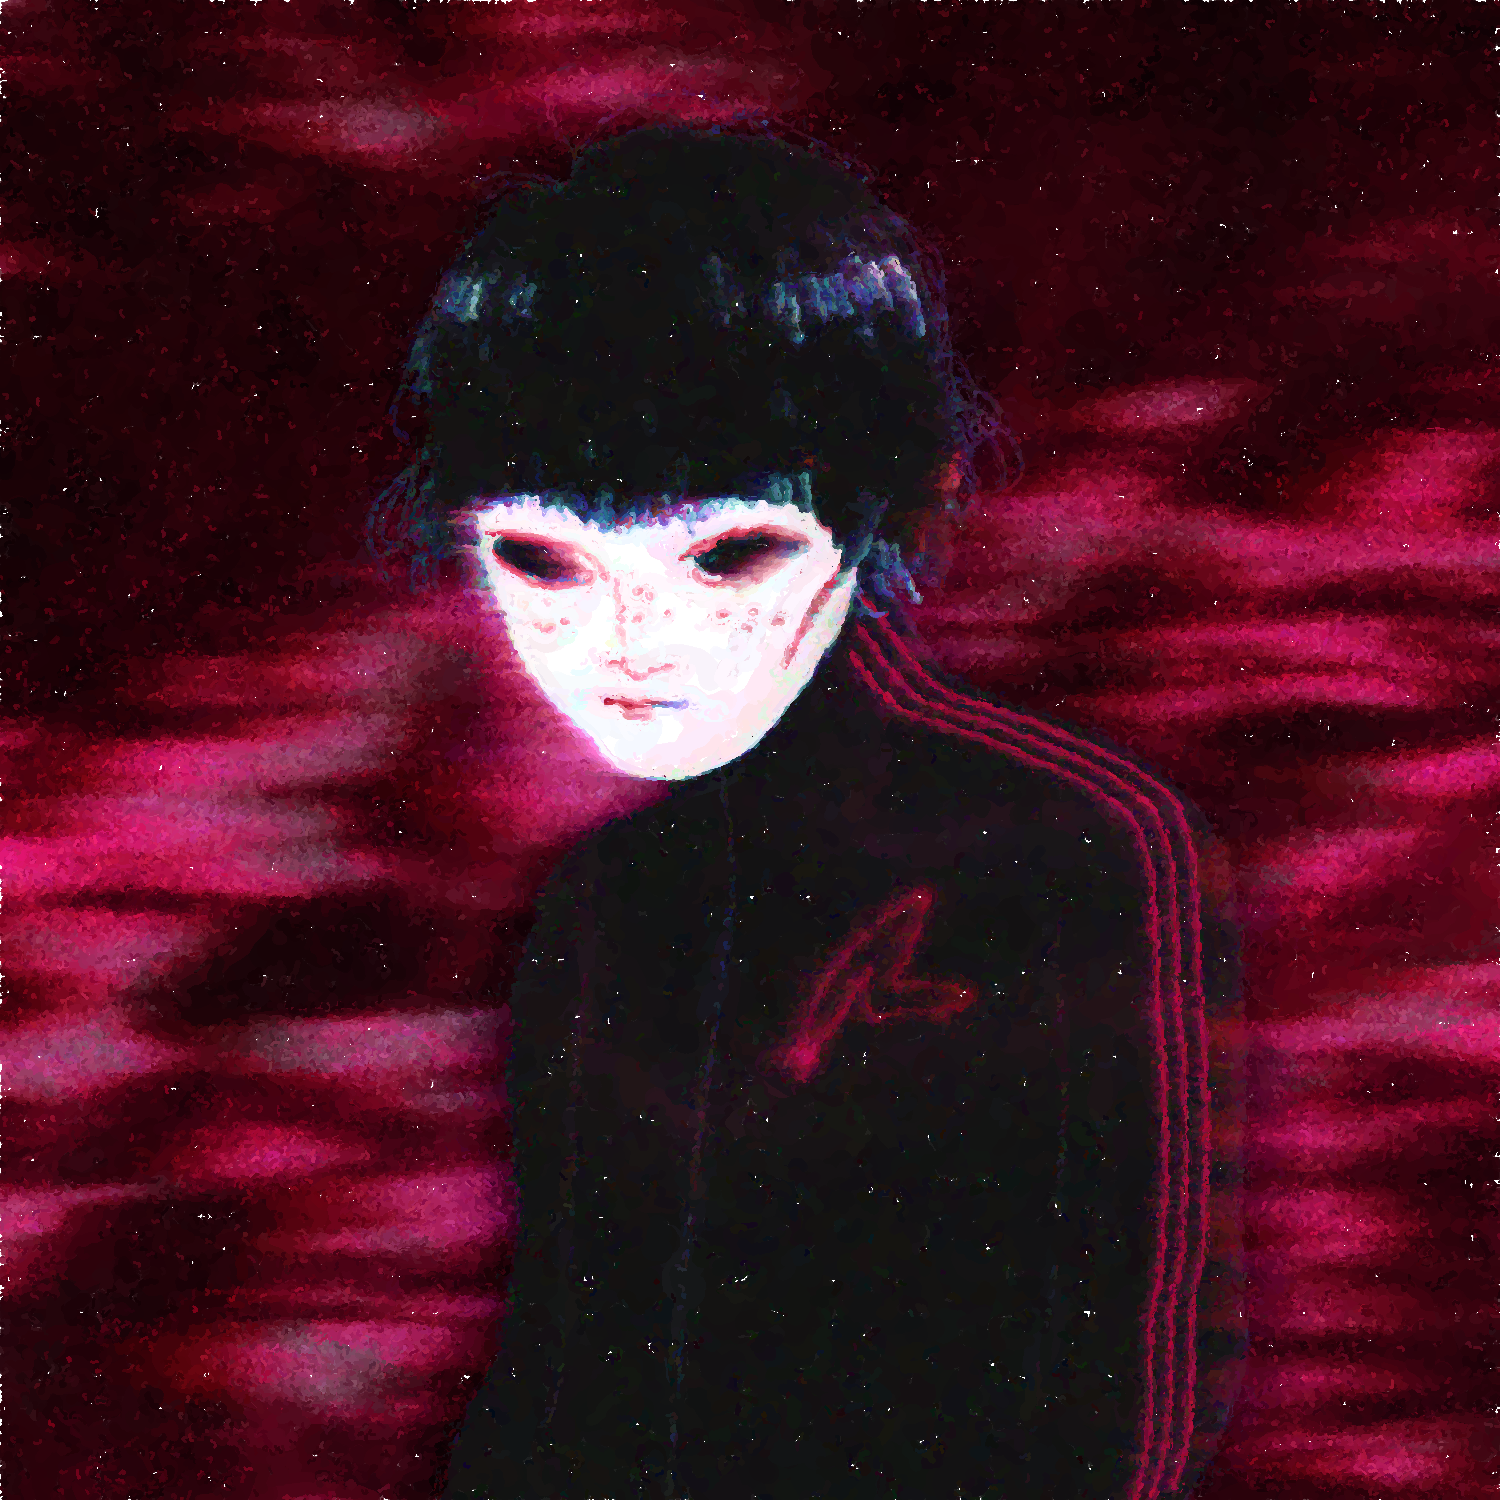
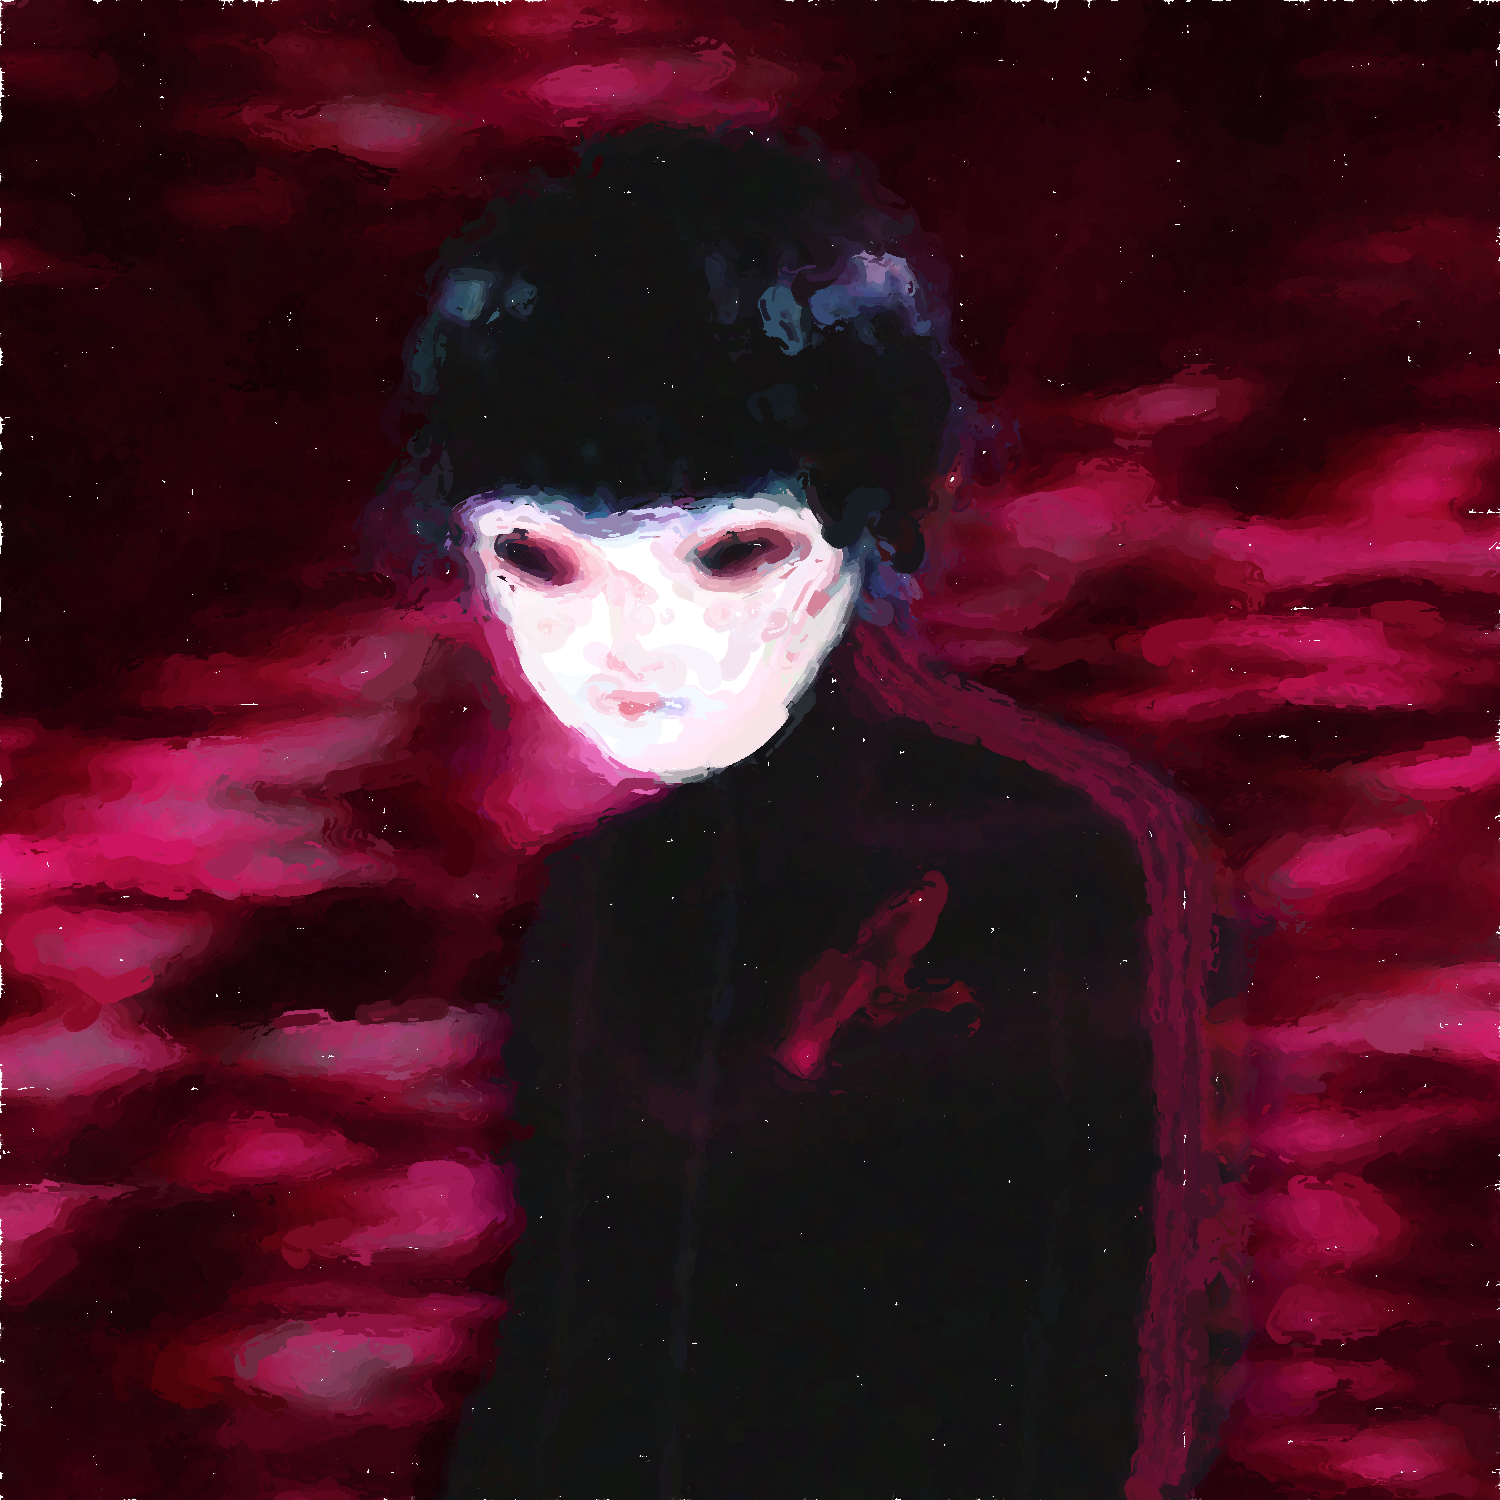
REFACTOR: (was dumb and doing the exact same computations n times because of the number of brushSizes we have) | ADD: Paralellism for Grayscale conversion

diff --git a/internal/gradient/grayscale.go b/internal/gradient/grayscale.go
@@ -1,8 +1,10 @@
 package gradient
 
 import (
+	"fmt"
 	"github.com/ACKERMANNGUE/go-painter/internal/model"
 	"image"
+	"sync"
 )
 
 func ToGrayscale(img image.Image) model.GrayImage {
@@ -30,4 +32,85 @@ func ToGrayscale(img image.Image) model.GrayImage {
 	}
 
 	return grayImage
+}
+
+func splitRows(height int, workers int) []model.Vec2 {
+	if workers <= 0 {
+		workers = 1
+	}
+	if workers > height {
+		workers = height
+	}
+
+	rows := make([]model.Vec2, 0, workers)
+	start := 0
+	end := 0
+
+	for i := 0; i < workers; i++ {
+		start = i * height / workers
+		end = (i + 1) * height / workers
+		fmt.Printf("start %v, end %v\n", start, end)
+		rows = append(rows, model.Vec2{
+			X: float64(start),
+			Y: float64(end),
+		})
+	}
+
+	return rows
+}
+
+func checkWorkerCount(workers int, height int) int {
+	if workers <= 0 {
+		return 1
+	}
+
+	if workers > height {
+		return height
+	}
+
+	return workers
+}
+
+func ToGrayscaleParallel(img image.Image, workers int) model.GrayImage {
+	bounds := img.Bounds()
+	width := bounds.Dx()
+	height := bounds.Dy()
+
+	workers = checkWorkerCount(workers, height)
+
+	grayImage := model.GrayImage{
+		Width:  width,
+		Height: height,
+		Data:   make([]float64, width*height),
+	}
+
+	ranges := splitRows(height, workers)
+
+	var wg sync.WaitGroup
+	for i := 0; i < len(ranges); i++ {
+		wg.Add(1)
+		go func(i int) {
+			defer wg.Done()
+			GrayifyRange(img, &grayImage, ranges[i])
+		}(i)
+	}
+
+	wg.Wait()
+	return grayImage
+}
+
+func GrayifyRange(source image.Image, grayImage *model.GrayImage, rangeRow model.Vec2) {
+	maxValue := 65535.0
+	redIntensity := 0.299
+	greenIntensity := 0.587
+	blueIntensity := 0.114
+	width := source.Bounds().Dx()
+
+	for y := int(rangeRow.X); y < int(rangeRow.Y); y++ {
+		for x := 0; x < width; x++ {
+			r, g, b, _ := source.At(x, y).RGBA()
+			grayValue := redIntensity*float64(r)/maxValue + greenIntensity*float64(g)/maxValue + blueIntensity*float64(b)/maxValue
+			grayImage.Data[y*width+x] = grayValue
+		}
+	}
 }

diff --git a/internal/painter/painter.go b/internal/painter/painter.go
@@ -34,35 +34,37 @@ func (p *Painter) Paint(source image.Image) (*image.RGBA, error) {
 	}
 
 	canvas := render.NewCanvas(bounds.Dx(), bounds.Dy(), model.ColorF{R: 1, G: 1, B: 1, A: 1})
+	baseBrushSize := p.Config.BrushSizes[0]
+	radius := max(1, baseBrushSize/4)
+	sigma := math.Max(0.8, float64(radius)*0.75)
+	reference := imageutil.GaussianBlur(source, radius, sigma)
+	gray := gradient.ToGrayscaleParallel(reference, p.Config.Workers)
+	field := gradient.Sobel(gray)
 
+	strokes := make([]model.BrushStroke, 0)
 	for _, brushSize := range p.Config.BrushSizes {
-		radius := max(1, brushSize/4)
-		sigma := math.Max(0.8, float64(radius)*0.75)
-		reference := imageutil.GaussianBlur(source, radius, sigma)
-		gray := gradient.ToGrayscale(reference)
-		field := gradient.Sobel(gray)
+		brushStrokes := GenerateStrokes(reference, canvas, field, brushSize, p.Config, p.rng)
+		strokes = append(strokes, brushStrokes...)
+	}
+	shuffleStrokes(strokes, p.rng)
 
-		strokes := GenerateStrokes(reference, canvas, field, brushSize, p.Config, p.rng)
-		shuffleStrokes(strokes, p.rng)
-
-		for _, stroke := range strokes {
-			if p.Config.UseCurvedStrokes {
-				points := DrawStroke(
-					stroke.Position,
-					field,
-					stroke.Length,
-					math.Max(1, stroke.Width*0.35),
-					p.Config.CurveSmoothing,
-				)
-				render.DrawCurvedStroke(canvas, model.CurvedStroke{
-					Points:  points,
-					Width:   stroke.Width,
-					Color:   stroke.Color,
-					Opacity: stroke.Opacity,
-				})
-			} else {
-				render.DrawStroke(canvas, stroke)
-			}
+	for _, stroke := range strokes {
+		if p.Config.UseCurvedStrokes {
+			points := DrawStroke(
+				stroke.Position,
+				field,
+				stroke.Length,
+				math.Max(1, stroke.Width*0.35),
+				p.Config.CurveSmoothing,
+			)
+			render.DrawCurvedStroke(canvas, model.CurvedStroke{
+				Points:  points,
+				Width:   stroke.Width,
+				Color:   stroke.Color,
+				Opacity: stroke.Opacity,
+			})
+		} else {
+			render.DrawStroke(canvas, stroke)
 		}
 	}
 

diff --git a/cmd/painter/main.go b/cmd/painter/main.go
@@ -17,6 +17,7 @@ func main() {
 	styleName := flag.String("style", "oil", "Painting preset: oil, impressionist, or rough")
 	seed := flag.Uint64("seed", 1, "Deterministic random seed used for stroke placement")
 	listStyles := flag.Bool("list-styles", false, "Print available style names and exit")
+	workers := flag.Int("workers", 8, "Number of workers to use")
 	flag.Parse()
 
 	if *listStyles {
@@ -34,6 +35,8 @@ func main() {
 		fmt.Fprintf(os.Stderr, "error: unknown style %q; available styles: %s\n", *styleName, strings.Join(painter.PresetNames(), ", "))
 		os.Exit(2)
 	}
+	config.Workers = *workers
+
 	source, err := imageutil.LoadImage(*inputPath)
 	if err != nil {
 		fatal(err)

diff --git a/internal/painter/types.go b/internal/painter/types.go
@@ -18,4 +18,5 @@ type PainterConfig struct {
 	Randomness       float64
 	UseCurvedStrokes bool
 	CurveSmoothing   float64
+	Workers          int
 }
